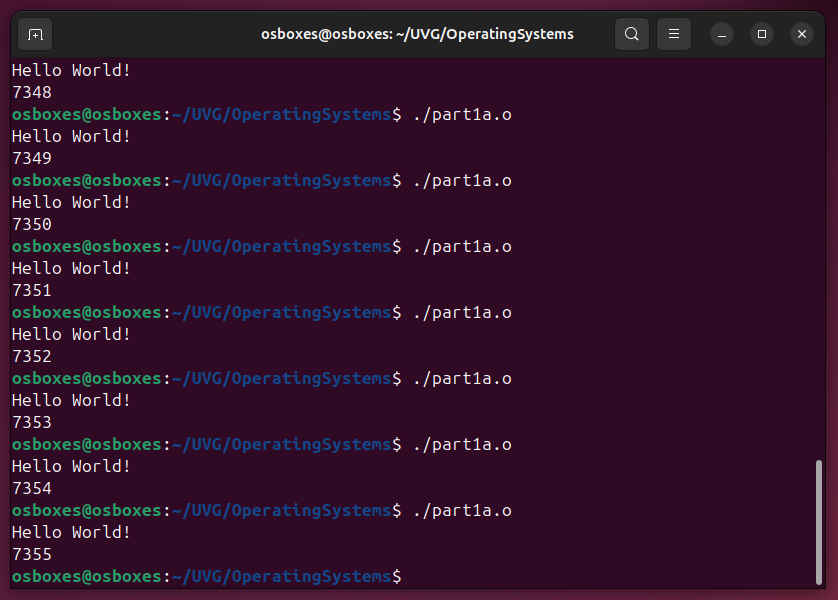
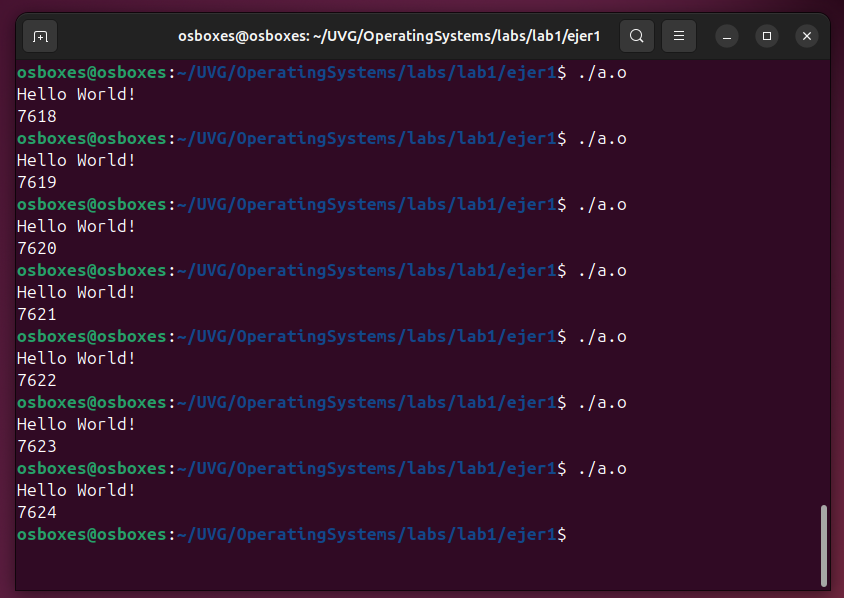
feat: cambio de ejecutable

Changed region(s): [[0.0, 0.0, 0.9928, 0.9933]]

diff --git a/labs/lab1/ejer1/b.c b/labs/lab1/ejer1/b.c
@@ -11,7 +11,7 @@ int main()
   else
   {
     printf("%d\n", (int)getpid());
-    execl("./b.o", "b", (char *)NULL);
+    execl("./a.o", "a.o", (char *)NULL);
   }
 
   return 0;
